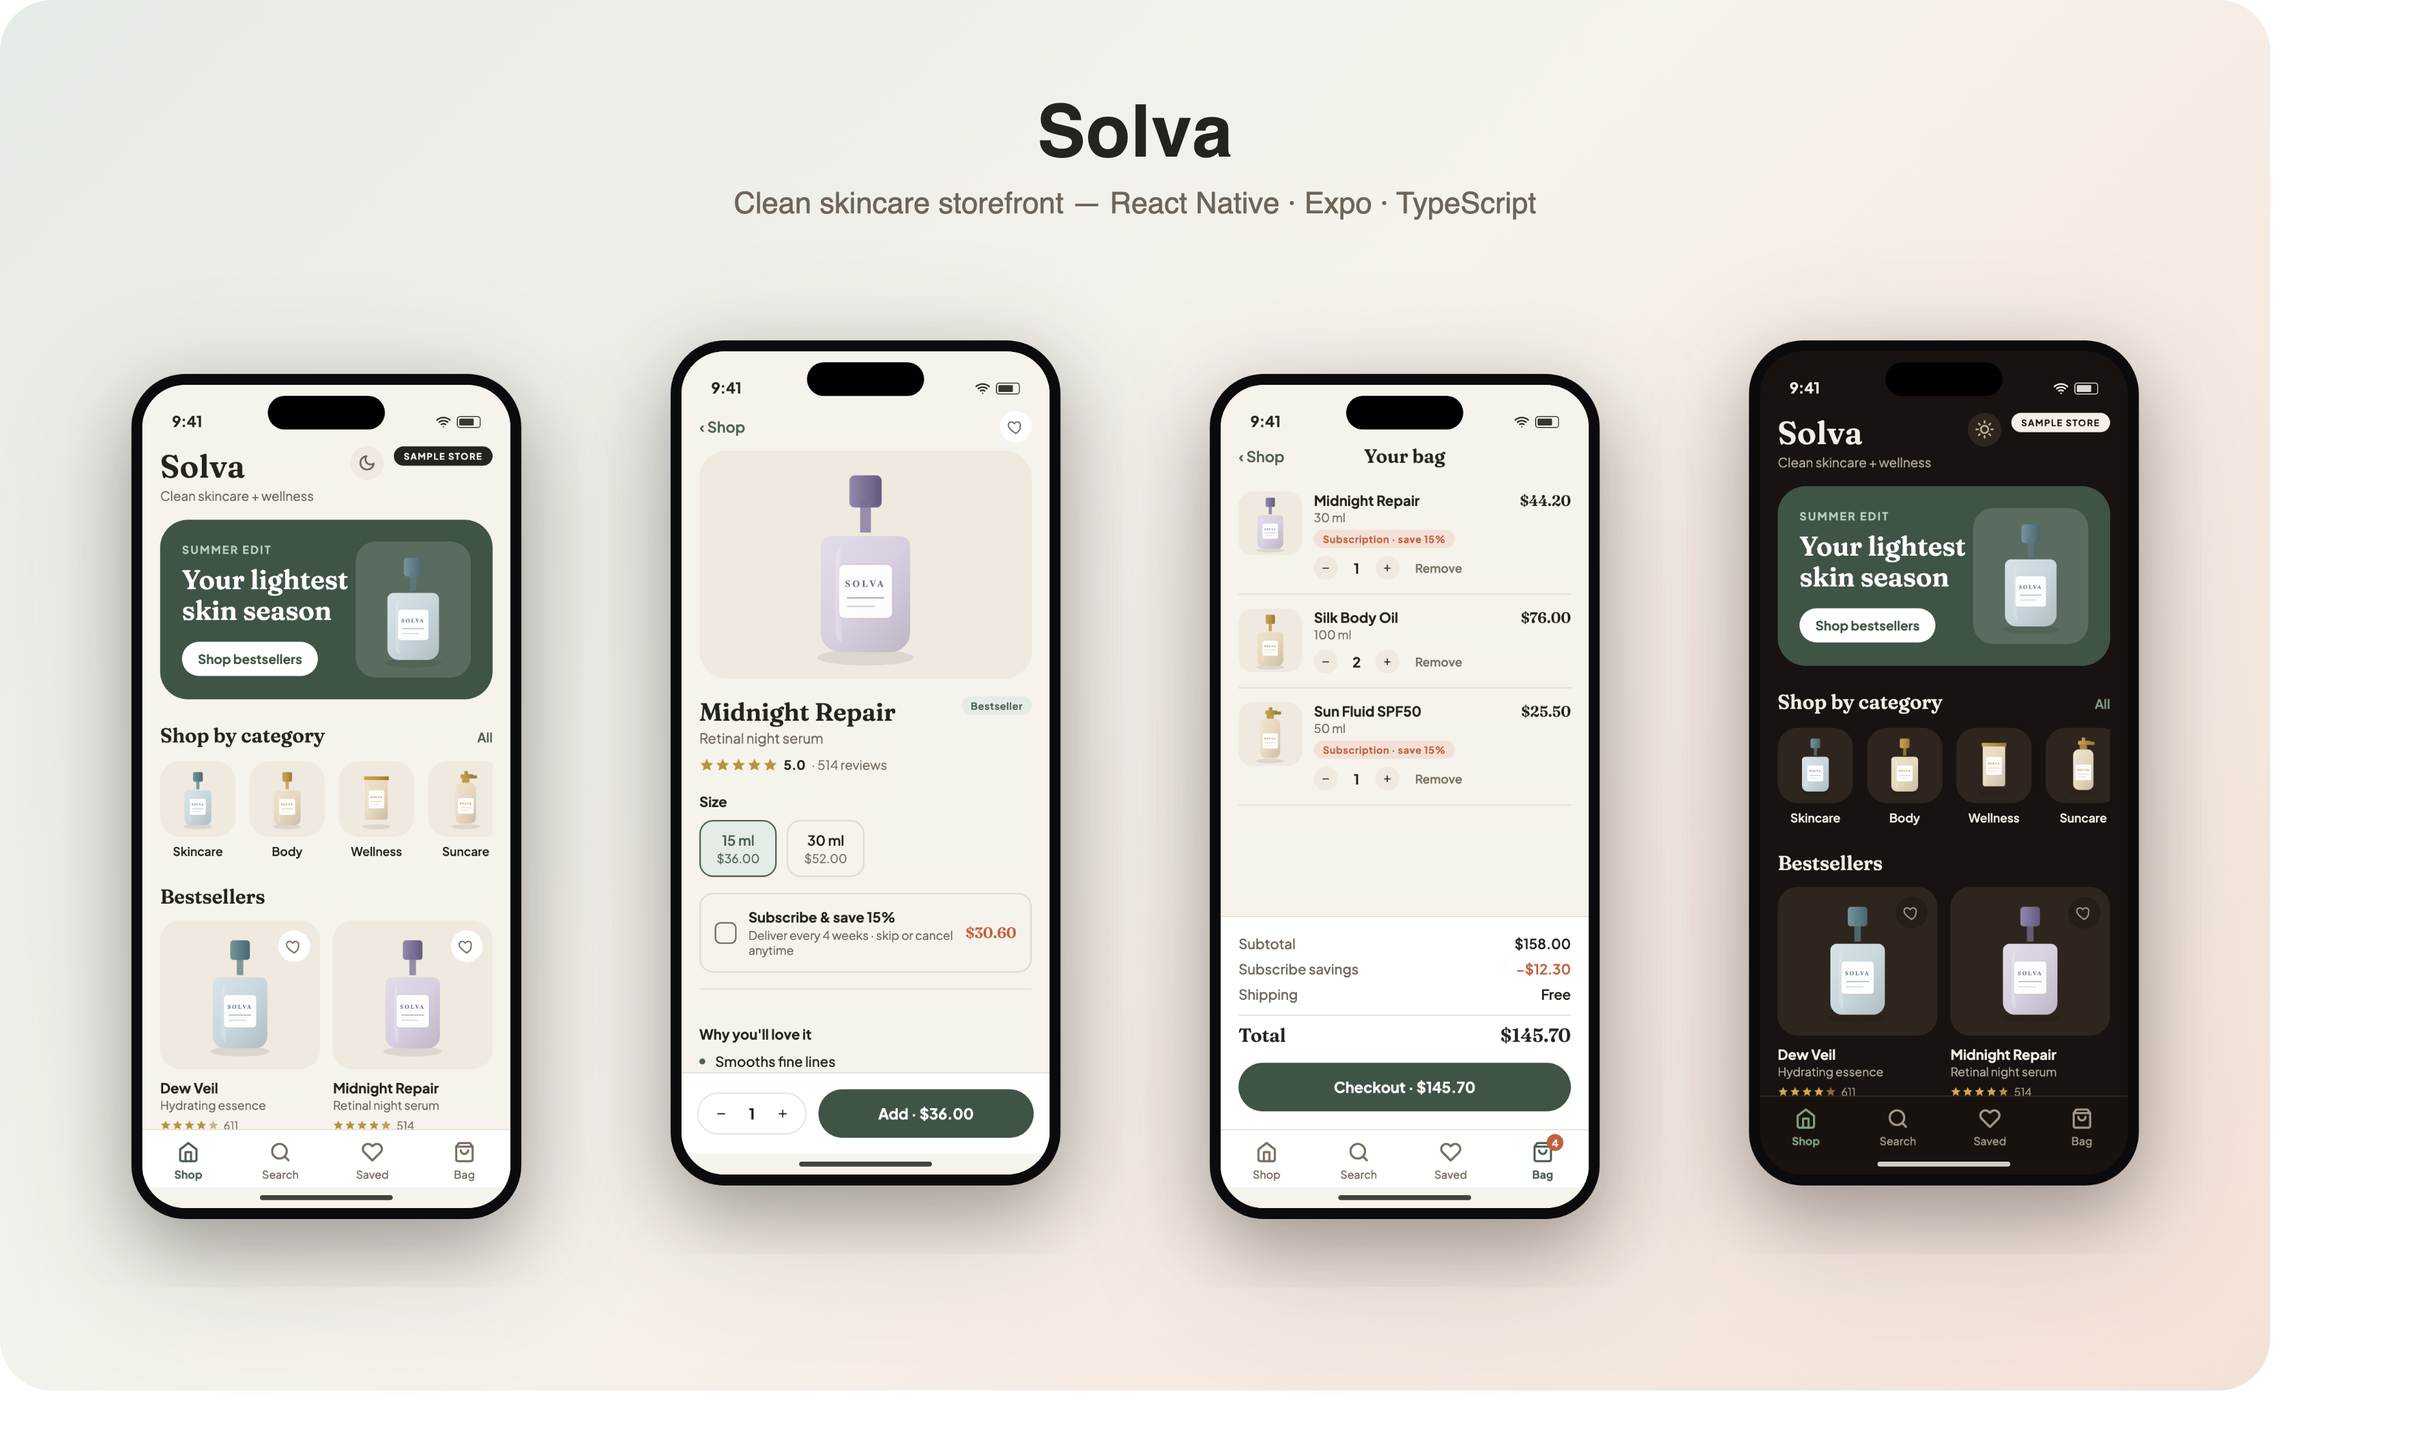
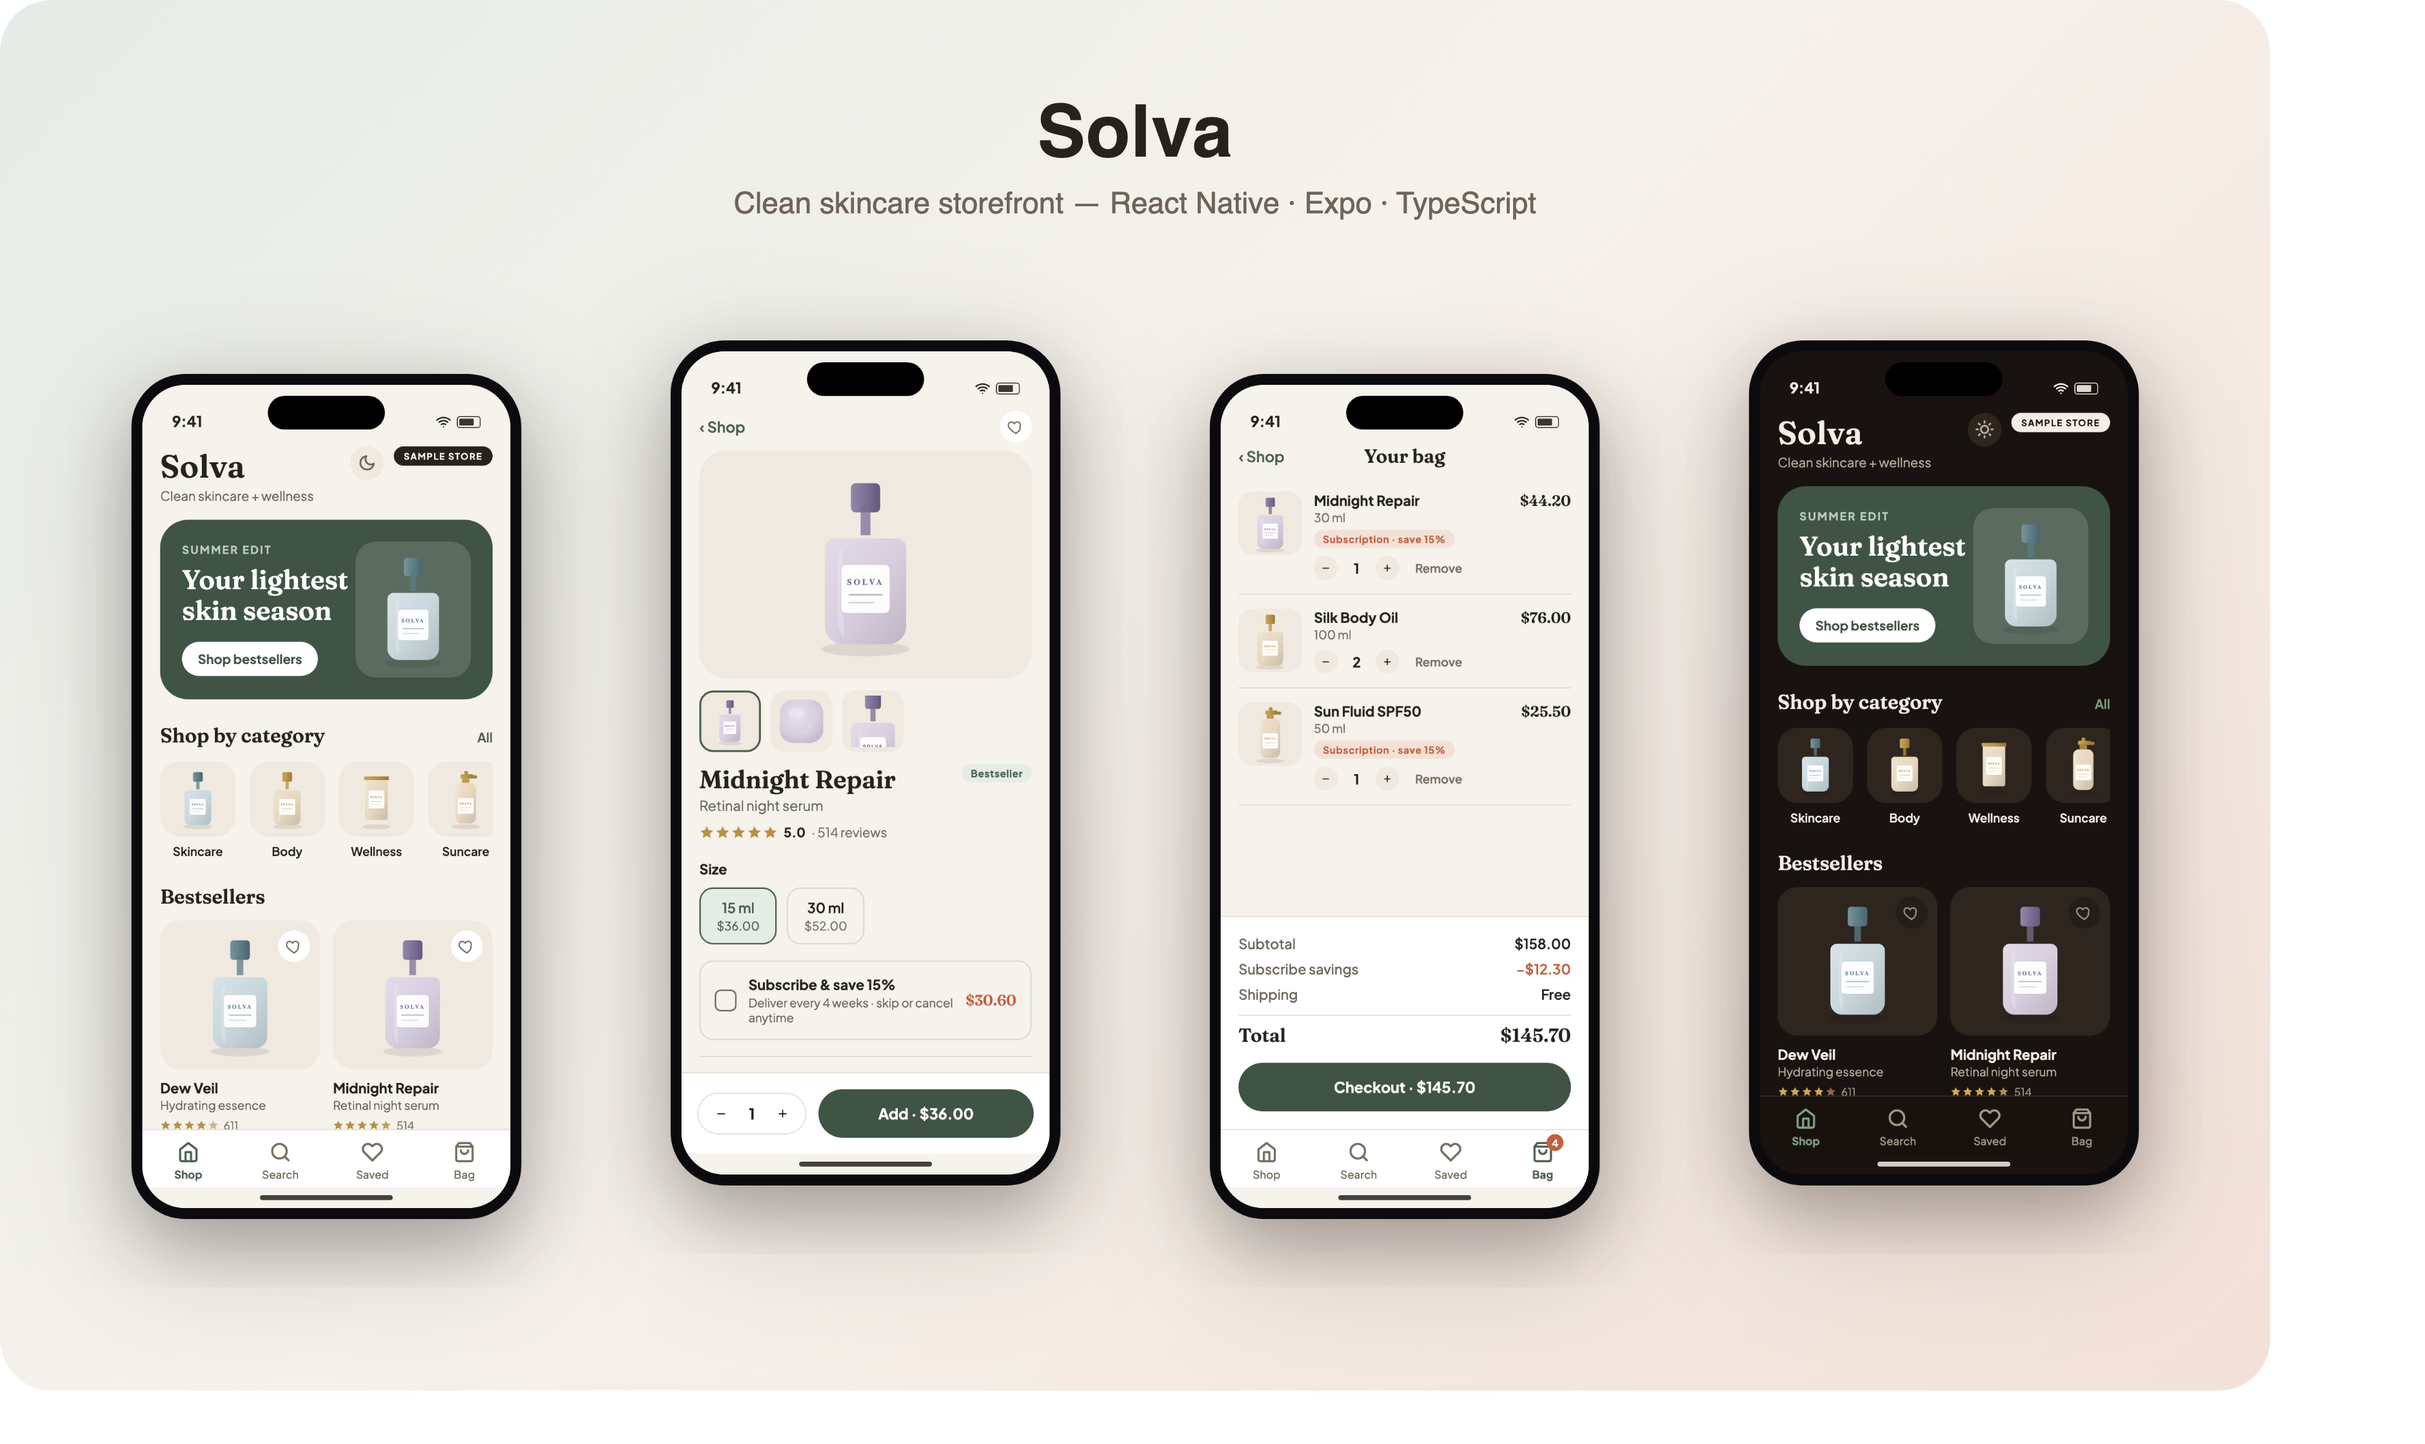
Solva PDP: image gallery (#5) + "You may also like" (#6)
- #5 Gallery: product page now has a main image plus a thumbnail strip that
  swaps it — front render, a texture swatch of the formula, and a zoomed detail.
  ProductGallery component; drop-in photos slot in the same way.
- #6 Related: pure relatedProducts() (same-category first, bestsellers ranked
  up, current excluded) drives a "You may also like" rail on the PDP; tapping a
  tile opens that product (ProductDetail remounts via key so state resets).
- +3 unit tests (33 total). tsc strict clean.

Changed region(s): [[0.2801, 0.4688, 0.3734, 0.75], [0.3423, 0.4062, 0.3734, 0.4375]]

diff --git a/storefront/src/screens/ProductDetail.tsx b/storefront/src/screens/ProductDetail.tsx
@@ -3,19 +3,22 @@ import { View, Text, StyleSheet, ScrollView, Pressable } from 'react-native';
 import { FONT, RADIUS, SUBSCRIBE_DISCOUNT, BTN, type Palette } from '../theme';
 import { useTheme, useStyles } from '../theme-context';
 import { Stars, Tag, HeartButton, Divider } from '../ui';
+import { ProductGallery } from '../components/ProductGallery';
 import { ProductArt } from '../components/ProductArt';
 import { productImage } from '../data/productImages';
 import { useStore } from '../store';
-import { money, isOnSale, discountPct, unitPriceCents, reviewsFor, averageReviewRating } from '../selectors';
+import { money, isOnSale, discountPct, unitPriceCents, reviewsFor, averageReviewRating, relatedProducts } from '../selectors';
 
 export default function ProductDetail({
   productId,
   onBack,
   onOpenCart,
+  onOpenProduct,
 }: {
   productId: string;
   onBack: () => void;
   onOpenCart: () => void;
+  onOpenProduct: (id: string) => void;
 }) {
   const { C } = useTheme();
   const styles = useStyles(makeStyles);
@@ -27,6 +30,7 @@ export default function ProductDetail({
   const [added, setAdded] = useState(false);
 
   const reviews = useMemo(() => reviewsFor(store.reviews, productId), [store.reviews, productId]);
+  const related = useMemo(() => (product ? relatedProducts(store.products, product, 4) : []), [store.products, product]);
 
   if (!product) {
     return (
@@ -47,8 +51,8 @@ export default function ProductDetail({
     <View style={styles.wrap}>
       <Header onBack={onBack} wished={wished} onWish={() => store.toggleWish(product.id)} />
       <ScrollView contentContainerStyle={styles.body} showsVerticalScrollIndicator={false}>
-        <View style={styles.gallery}>
-          <ProductArt vessel={product.vessel} tint={product.tint} size={180} image={productImage(product.id)} label={product.name} />
+        <View style={styles.galleryWrap}>
+          <ProductGallery vessel={product.vessel} tint={product.tint} name={product.name} image={productImage(product.id)} />
           {sale ? <View style={styles.saleTag}><Tag label={`-${discountPct(product)}% summer`} tone="terra" /></View> : null}
         </View>
 
@@ -120,6 +124,24 @@ export default function ProductDetail({
             <Text style={styles.reviewBody}>{r.body}</Text>
           </View>
         ))}
+
+        {related.length > 0 ? (
+          <>
+            <Divider />
+            <Text style={styles.label}>You may also like</Text>
+            <ScrollView horizontal showsHorizontalScrollIndicator={false} style={styles.railScroll} contentContainerStyle={styles.rail}>
+              {related.map((rp) => (
+                <Pressable key={rp.id} style={styles.relTile} onPress={() => onOpenProduct(rp.id)}>
+                  <View style={styles.relArt}>
+                    <ProductArt vessel={rp.vessel} tint={rp.tint} size={64} image={productImage(rp.id)} label={rp.name} />
+                  </View>
+                  <Text style={styles.relName} numberOfLines={1}>{rp.name}</Text>
+                  <Text style={styles.relPrice}>{money(rp.priceCents)}</Text>
+                </Pressable>
+              ))}
+            </ScrollView>
+          </>
+        ) : null}
       </ScrollView>
 
       {/* sticky add bar */}
@@ -162,8 +184,8 @@ const makeStyles = (C: Palette) =>
     missing: { fontFamily: FONT.body, fontSize: 14, color: C.inkDim, padding: 18 },
 
     body: { paddingHorizontal: 18, paddingBottom: 20 },
-    gallery: { backgroundColor: C.cardAlt, borderRadius: RADIUS.xl, height: 230, alignItems: 'center', justifyContent: 'center', marginBottom: 18 },
-    saleTag: { position: 'absolute', top: 14, left: 14 },
+    galleryWrap: { marginBottom: 6 },
+    saleTag: { position: 'absolute', top: 14, left: 14, zIndex: 5 },
 
     headRow: { flexDirection: 'row', alignItems: 'flex-start', gap: 10 },
     name: { fontFamily: FONT.display, fontSize: 25, color: C.ink },
@@ -201,6 +223,13 @@ const makeStyles = (C: Palette) =>
     reviewAuthor: { fontFamily: FONT.bodySemi, fontSize: 12, color: C.inkDim },
     reviewTitle: { fontFamily: FONT.bodyBold, fontSize: 14, color: C.ink, marginTop: 4 },
     reviewBody: { fontFamily: FONT.bodyReg, fontSize: 13, color: C.inkDim, marginTop: 2, lineHeight: 19 },
+
+    railScroll: { height: 150 },
+    rail: { gap: 12, paddingVertical: 2 },
+    relTile: { width: 104 },
+    relArt: { width: 104, height: 96, borderRadius: RADIUS.md, backgroundColor: C.cardAlt, alignItems: 'center', justifyContent: 'center', marginBottom: 7, overflow: 'hidden' },
+    relName: { fontFamily: FONT.bodySemi, fontSize: 12, color: C.ink },
+    relPrice: { fontFamily: FONT.display, fontSize: 13, color: C.ink, marginTop: 1 },
 
     bar: { flexDirection: 'row', alignItems: 'center', gap: 12, padding: 16, borderTopWidth: 1, borderTopColor: C.line, backgroundColor: C.card },
     qty: { flexDirection: 'row', alignItems: 'center', gap: 12, borderWidth: 1, borderColor: C.line, borderRadius: RADIUS.pill, paddingHorizontal: 12, paddingVertical: 9 },

diff --git a/storefront/src/components/ProductGallery.tsx b/storefront/src/components/ProductGallery.tsx
@@ -1,0 +1,121 @@
+import React, { useId, useState } from 'react';
+import { View, StyleSheet, Pressable, ImageSourcePropType } from 'react-native';
+import Svg, { Defs, RadialGradient, Stop, Rect, Ellipse, Circle } from 'react-native-svg';
+import { PRODUCT_TINTS, RADIUS, type Palette } from '../theme';
+import { useStyles } from '../theme-context';
+import type { Vessel } from '../types';
+import { ProductArt } from './ProductArt';
+
+type ViewKey = 'front' | 'texture' | 'detail';
+const VIEWS: ViewKey[] = ['front', 'texture', 'detail'];
+
+/**
+ * PDP gallery: one large view + a thumbnail strip. For a product with real
+ * photos this would page an image array; with the SVG mockups it shows three
+ * angles — the pack front, a texture swatch of the formula, and a zoomed detail.
+ */
+export function ProductGallery({
+  vessel,
+  tint,
+  name,
+  image,
+}: {
+  vessel: Vessel;
+  tint: string;
+  name: string;
+  image?: ImageSourcePropType | null;
+}) {
+  const styles = useStyles(makeStyles);
+  const [active, setActive] = useState<ViewKey>('front');
+
+  const renderView = (key: ViewKey, size: number) => {
+    if (key === 'texture') return <TextureSwatch tint={tint} size={size} />;
+    if (key === 'detail')
+      return (
+        <View style={{ width: size, height: size, overflow: 'hidden', alignItems: 'center', justifyContent: 'flex-start' }}>
+          <View style={{ transform: [{ scale: 1.7 }, { translateY: size * 0.12 }] }}>
+            <ProductArt vessel={vessel} tint={tint} size={size} />
+          </View>
+        </View>
+      );
+    return <ProductArt vessel={vessel} tint={tint} size={size * 0.82} image={image} label={name} />;
+  };
+
+  return (
+    <View>
+      <View style={styles.main} accessibilityRole="image" accessibilityLabel={`${name}, image ${VIEWS.indexOf(active) + 1} of ${VIEWS.length}`}>
+        {renderView(active, 200)}
+      </View>
+      <View style={styles.thumbs}>
+        {VIEWS.map((k) => (
+          <Pressable
+            key={k}
+            onPress={() => setActive(k)}
+            style={[styles.thumb, active === k && styles.thumbActive]}
+            accessibilityRole="button"
+            accessibilityLabel={`View ${k}`}
+          >
+            {renderView(k, 52)}
+          </Pressable>
+        ))}
+      </View>
+    </View>
+  );
+}
+
+/** A soft radial swatch representing the product's texture/formula. */
+function TextureSwatch({ tint, size }: { tint: string; size: number }) {
+  const t = PRODUCT_TINTS[tint] ?? PRODUCT_TINTS.sage;
+  const uid = useId().replace(/[:]/g, '');
+  const g = `t${uid}`;
+  return (
+    <Svg width={size} height={size} viewBox="0 0 100 100">
+      <Defs>
+        <RadialGradient id={g} cx="42%" cy="38%" r="70%">
+          <Stop offset="0" stopColor={lighten(t.fill, 0.35)} />
+          <Stop offset="0.6" stopColor={t.fill} />
+          <Stop offset="1" stopColor={darken(t.fill, 0.1)} />
+        </RadialGradient>
+      </Defs>
+      <Rect x="8" y="8" width="84" height="84" rx="26" fill={`url(#${g})`} />
+      <Ellipse cx="40" cy="34" rx="16" ry="10" fill="#FFFFFF" opacity={0.28} />
+      <Circle cx="66" cy="60" r="5" fill="#FFFFFF" opacity={0.18} />
+      <Circle cx="58" cy="72" r="3" fill="#FFFFFF" opacity={0.14} />
+    </Svg>
+  );
+}
+
+function mix(hex: string, target: number, amt: number) {
+  const n = parseInt(hex.slice(1), 16);
+  const r = (n >> 16) & 255, g = (n >> 8) & 255, b = n & 255;
+  const m = (c: number) => Math.round(c + (target - c) * amt);
+  return `#${((1 << 24) + (m(r) << 16) + (m(g) << 8) + m(b)).toString(16).slice(1)}`;
+}
+const lighten = (hex: string, amt: number) => mix(hex, 255, amt);
+const darken = (hex: string, amt: number) => mix(hex, 0, amt);
+
+const makeStyles = (C: Palette) =>
+  StyleSheet.create({
+    main: {
+      backgroundColor: C.cardAlt,
+      borderRadius: RADIUS.xl,
+      height: 230,
+      alignItems: 'center',
+      justifyContent: 'center',
+      marginBottom: 12,
+      overflow: 'hidden',
+    },
+    thumbs: { flexDirection: 'row', gap: 10, marginBottom: 6 },
+    thumb: {
+      width: 62,
+      height: 62,
+      borderRadius: RADIUS.md,
+      backgroundColor: C.cardAlt,
+      alignItems: 'center',
+      justifyContent: 'center',
+      overflow: 'hidden',
+      borderWidth: 2,
+      borderColor: 'transparent',
+    },
+    thumbActive: { borderColor: C.sage },
+  });

diff --git a/storefront/src/__tests__/selectors.test.ts b/storefront/src/__tests__/selectors.test.ts
@@ -12,6 +12,7 @@ import {
   money,
   validateCheckout,
   isCheckoutValid,
+  relatedProducts,
 } from '../selectors';
 import { SUBSCRIBE_DISCOUNT } from '../theme';
 import type { Product, Review, CartLine } from '../types';
@@ -136,6 +137,27 @@ describe('money', () => {
     expect(money(3400)).toBe('$34.00');
     expect(money(1530)).toBe('$15.30');
     expect(money(0)).toBe('$0.00');
+  });
+});
+
+describe('relatedProducts', () => {
+  const cat = [
+    mk({ id: 'p1', category: 'skincare', bestseller: true, rating: 4.9 }),
+    mk({ id: 'p2', category: 'skincare', bestseller: false, rating: 4.2 }),
+    mk({ id: 'p3', category: 'body', bestseller: true, rating: 4.8 }),
+    mk({ id: 'p4', category: 'body', bestseller: false, rating: 4.1 }),
+  ];
+  it('excludes the current product', () => {
+    const r = relatedProducts(cat, cat[0], 4);
+    expect(r.map((p) => p.id)).not.toContain('p1');
+  });
+  it('prefers same category first, bestsellers ranked up', () => {
+    const r = relatedProducts(cat, cat[0], 4);
+    expect(r[0].id).toBe('p2'); // only other skincare comes first
+    expect(r[1].id).toBe('p3'); // then bestseller from other category
+  });
+  it('caps the result at n', () => {
+    expect(relatedProducts(cat, cat[0], 2)).toHaveLength(2);
   });
 });
 

diff --git a/storefront/src/selectors.ts b/storefront/src/selectors.ts
@@ -113,6 +113,27 @@ export function reviewsFor(reviews: Review[], productId: string): Review[] {
   return reviews.filter((r) => r.productId === productId);
 }
 
+/**
+ * "You may also like" — same-category products first (bestsellers ranked up),
+ * topped up with other bestsellers, excluding the current product. Up to `n`.
+ */
+export function relatedProducts(products: Product[], current: Product, n = 4): Product[] {
+  const rank = (p: Product) => Number(p.bestseller);
+  const notSelf = products.filter((p) => p.id !== current.id);
+  const sameCat = notSelf
+    .filter((p) => p.category === current.category)
+    .sort((a, b) => rank(b) - rank(a) || b.rating - a.rating);
+  const rest = notSelf
+    .filter((p) => p.category !== current.category)
+    .sort((a, b) => rank(b) - rank(a) || b.rating - a.rating);
+  const out: Product[] = [];
+  for (const p of [...sameCat, ...rest]) {
+    if (out.length >= n) break;
+    out.push(p);
+  }
+  return out;
+}
+
 /** Average of a product's actual review entries (falls back to catalog rating). */
 export function averageReviewRating(reviews: Review[], productId: string, fallback: number): number {
   const rs = reviewsFor(reviews, productId);

diff --git a/storefront/App.tsx b/storefront/App.tsx
@@ -53,7 +53,7 @@ function Shell() {
   if (checkout) {
     content = <Checkout onBack={() => setCheckout(false)} onDone={() => { setCheckout(false); setTab('Shop'); }} />;
   } else if (productId) {
-    content = <ProductDetail productId={productId} onBack={() => setProductId(null)} onOpenCart={() => { setProductId(null); setTab('Bag'); }} />;
+    content = <ProductDetail key={productId} productId={productId} onBack={() => setProductId(null)} onOpenCart={() => { setProductId(null); setTab('Bag'); }} onOpenProduct={setProductId} />;
   } else if (tab === 'Shop') {
     content = <Shop onOpenProduct={openProduct} onOpenCategory={openCategory} />;
   } else if (tab === 'Search') {
